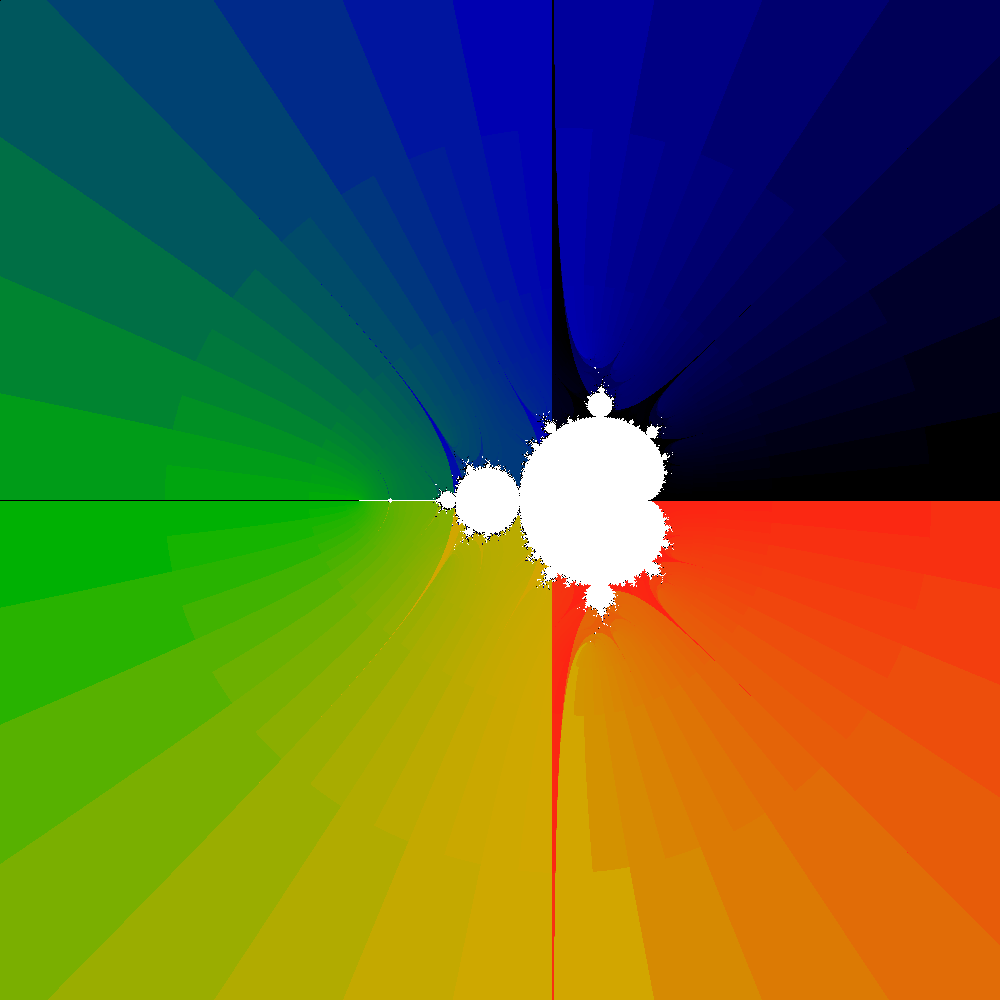
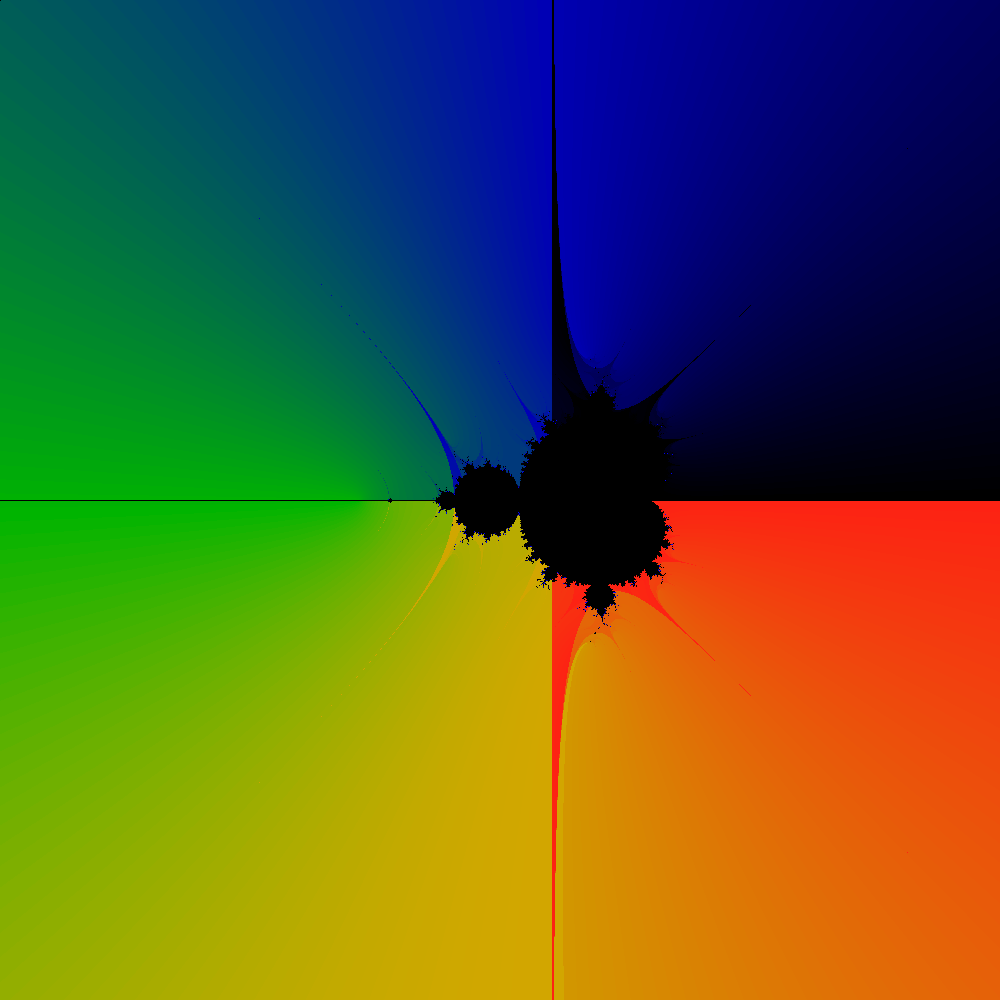
winding - phase_cnt

diff --git a/phase_cnt.c b/phase_cnt.c
@@ -274,9 +274,12 @@ double GiveExternalAngle(complex C)
        	if (cabs(Z) > EscapeRadius) break;
    }
 
-    // Return a valu between 0.0 and 1.0
-    if (i == IterationMax) return -1;
-      else return  cnt / pow(2.0, i+1);
+
+    phase = GiveTurn(Z); 
+    
+    // return phase + cnt/pow(2.0, i+1); // 1. level sets visible , doubling visible
+    // return cnt/pow(2.0, i+1); // 2. 
+    return (2.0*phase + cnt)/pow(2.0, i+1); // 3. 
 
     
 } 
@@ -299,8 +302,7 @@ int ComputeAndSavePixelColor(int iX, int iY){
   t = GiveExternalAngle(C);
   
   
-  if (t<0.0) {data[k]=255; data[k+1]=255; data[k+2]=255;}   // interior 
-  	else GiveLinasColor(t , k,  data); // exterior
+  GiveLinasColor(t , k,  data); //
       
     
  
